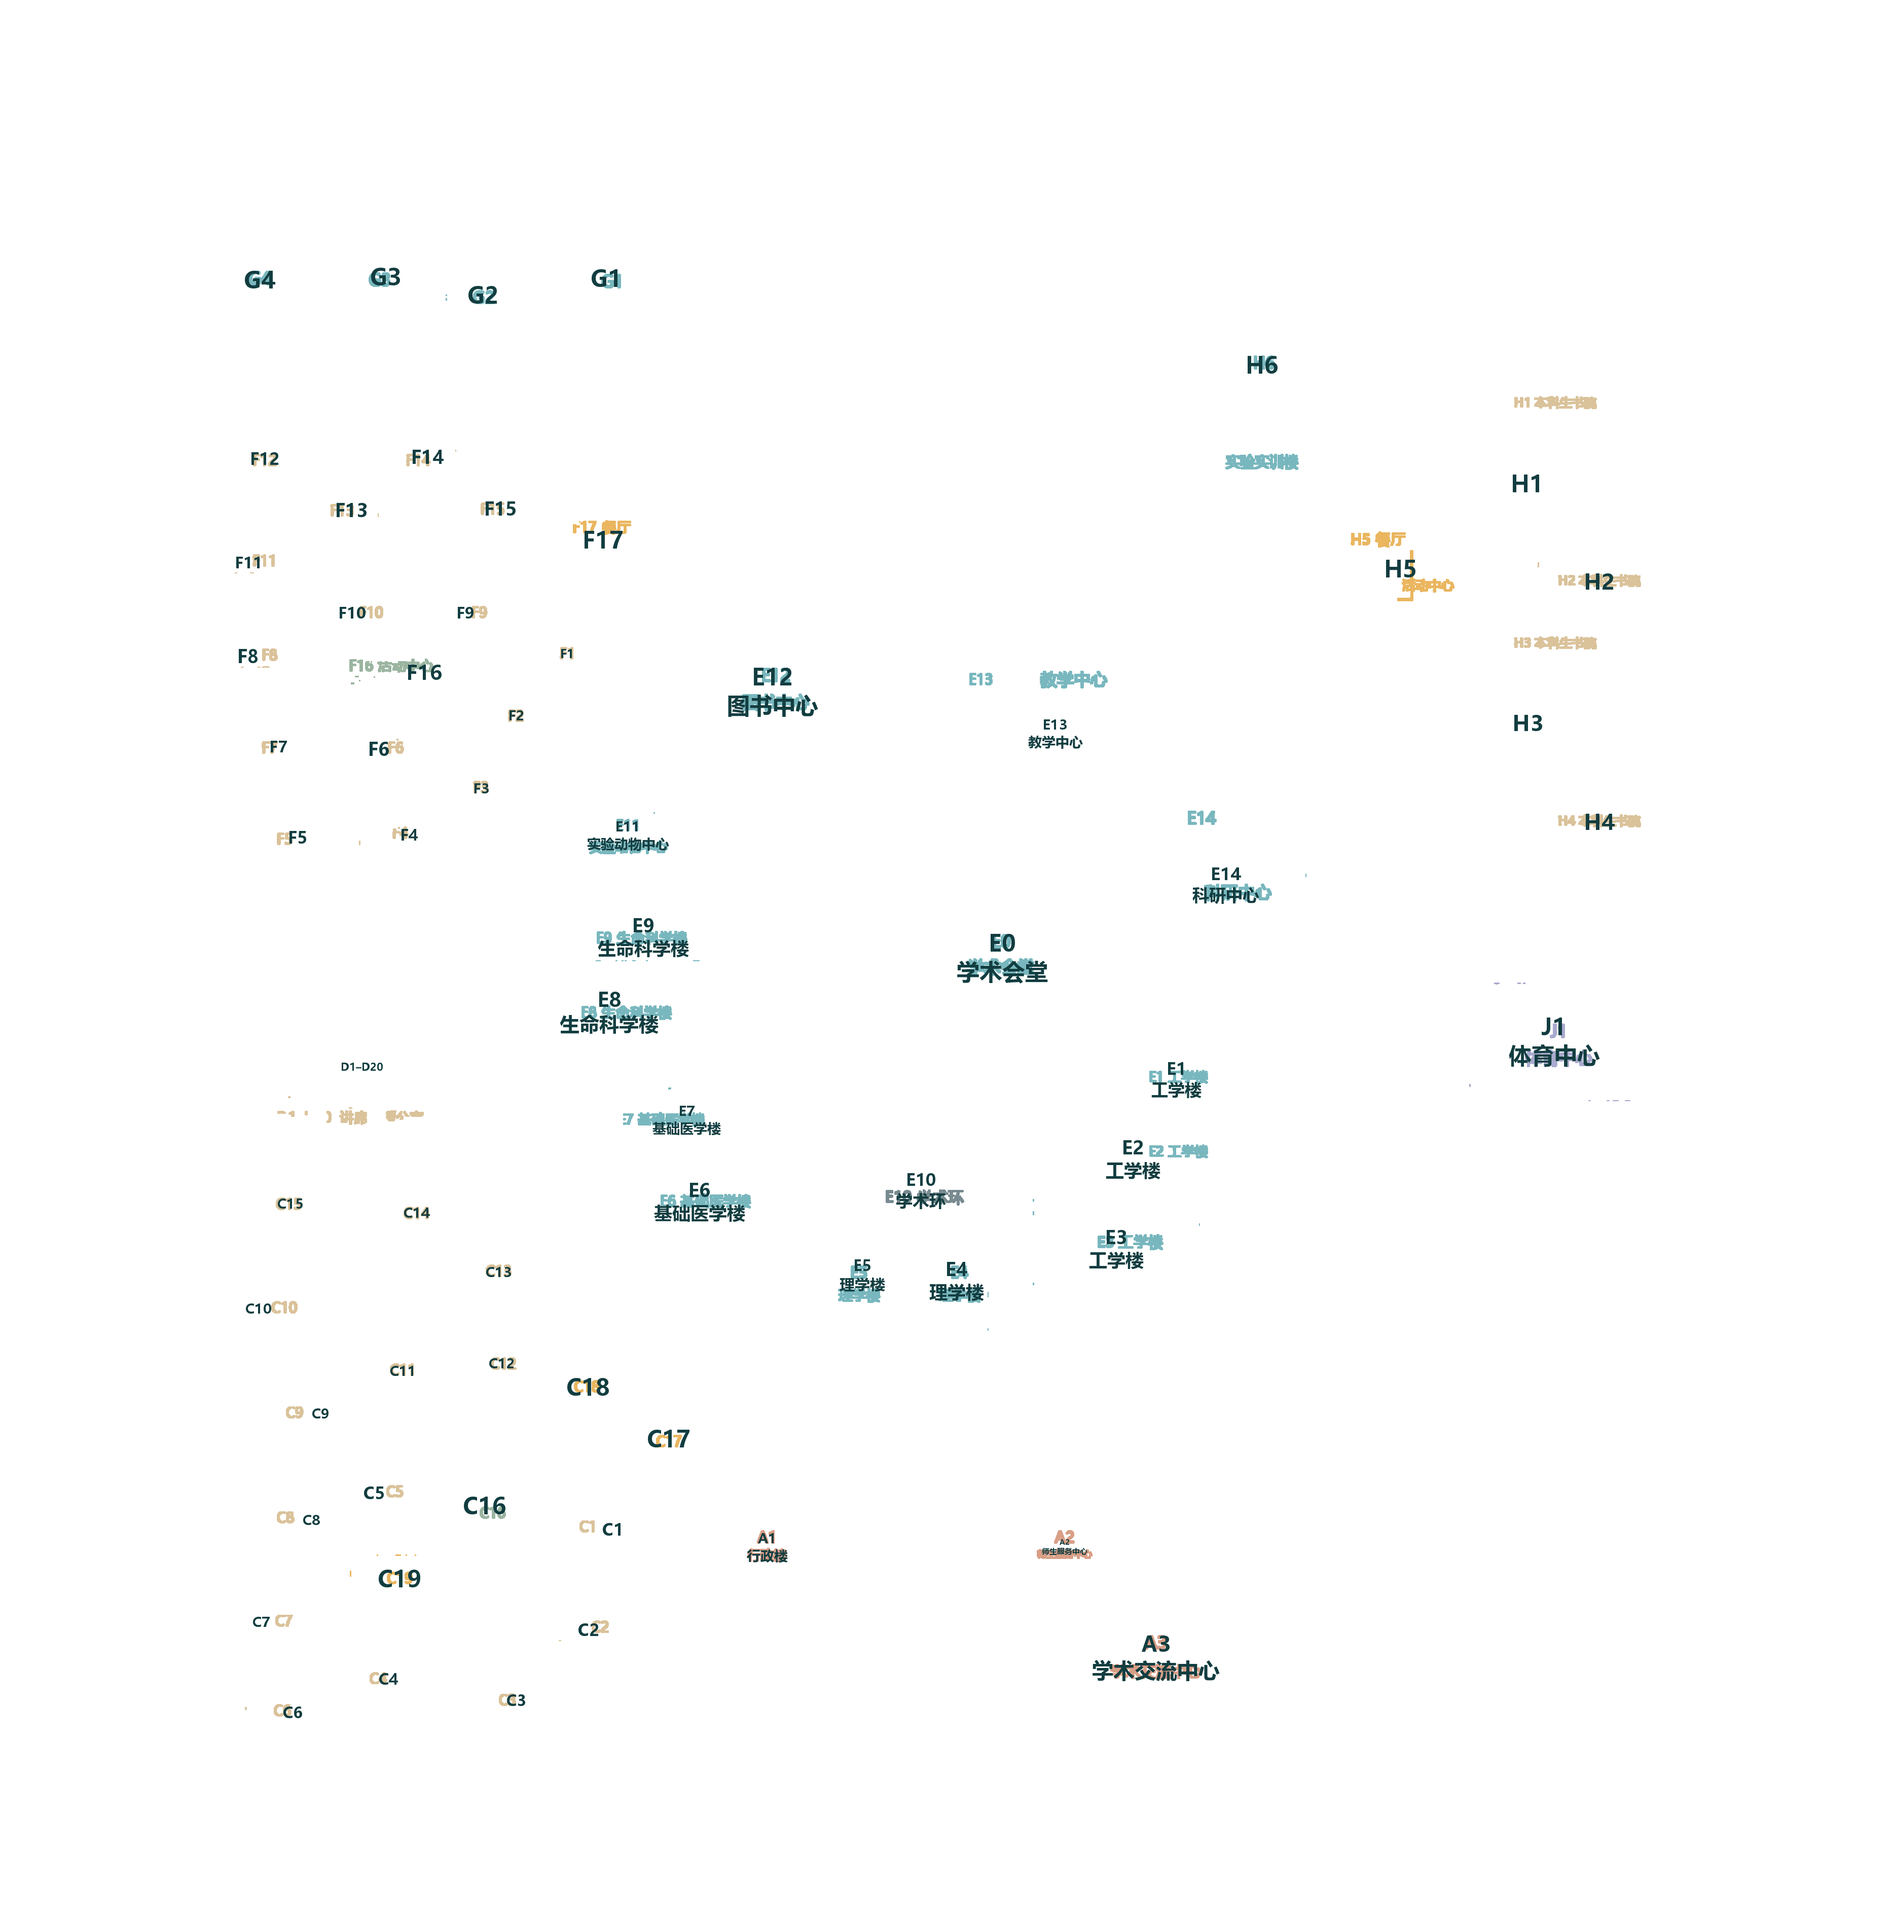
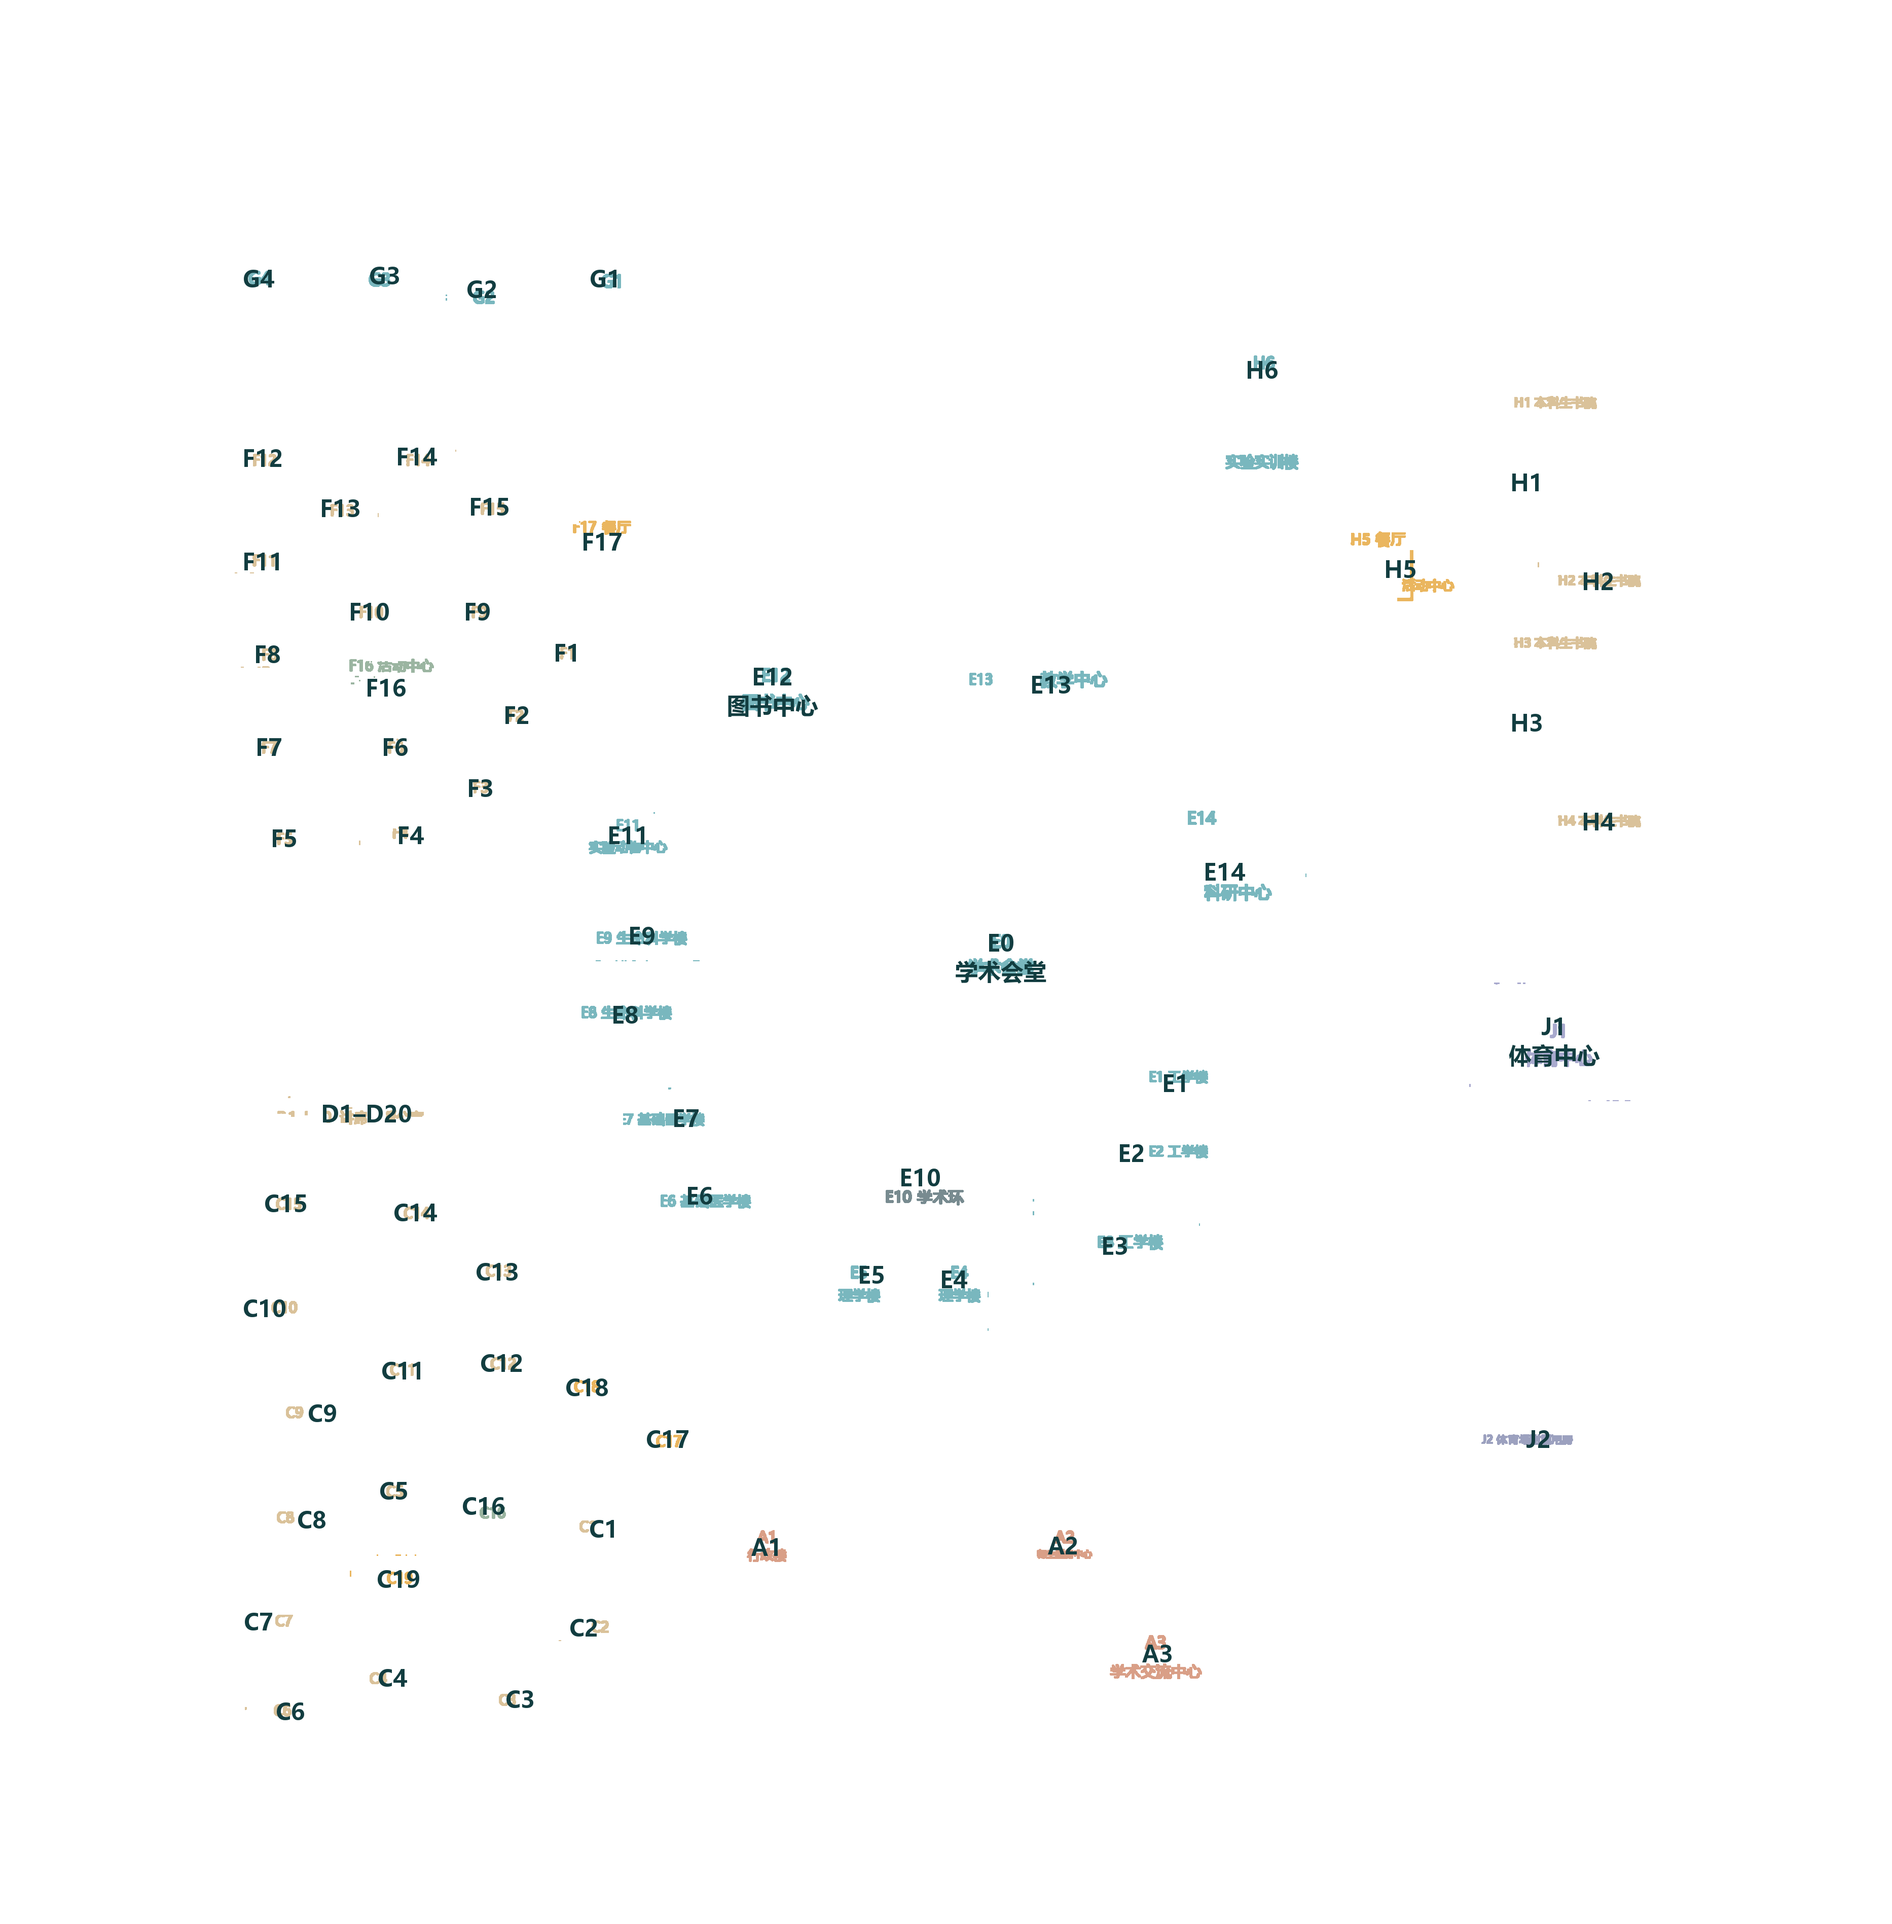
Match ground building labels to C17 lettering

diff --git a/site/atlas.js b/site/atlas.js
@@ -27,7 +27,7 @@ function buildingAt(x,y){
   return footprints.findIndex(f=>point.x>=f.left&&point.x<f.right&&point.y>=f.top&&point.y<f.bottom&&f.path.isPointInFill(point))+1;
 }
 const groundLabels=document.createElementNS(map.namespaceURI,'image');
-groundLabels.setAttribute('href','assets/building-labels.webp?v=h-college-2');
+groundLabels.setAttribute('href','assets/building-labels.webp?v=uniform-15');
 groundLabels.setAttribute('width','1244');groundLabels.setAttribute('height','1265');
 groundLabels.setAttribute('class','ground-labels');groundLabels.style.pointerEvents='none';
 el('campusBase').after(groundLabels);

diff --git a/tools/build-ground-labels.py b/tools/build-ground-labels.py
@@ -16,27 +16,25 @@ for idx, (code,name,category) in enumerate(data['items'],1):
     x,y=xs.min(),ys.min()
     w,h=xs.max()-x+1,ys.max()-y+1
     inside=mask[y:y+h,x:x+w]==idx
-    integral=np.pad(inside.astype(int),((1,0),(1,0))).cumsum(0).cumsum(1)
-    # Keep short codes visible on narrow wings. Use full names where they fit.
+    # C17 uses 15 map units. Anchor every label inside its own footprint.
+    size=15
+    font=ImageFont.truetype('C:/Windows/Fonts/msyhbd.ttc',size*scale)
     lines=[code,name] if code.startswith(('E','J','A')) else [code]
-    college=code in {'H1','H2','H3','H4'}
-    for size in range(22 if college else 15,3,-1):
-        font=ImageFont.truetype('C:/Windows/Fonts/msyhbd.ttc',size*scale)
-        widths=[font.getlength(t)/scale for t in lines]
-        rw=int(np.ceil(max(widths)))+2
-        rh=int(np.ceil(size*1.24*len(lines)))+1
-        if college:
-            # Fit the visible glyphs rather than reserving a full line of leading.
-            left,top,right,bottom=font.getbbox(code)
-            rw=int(np.ceil((right-left)/scale))+2
-            rh=int(np.ceil((bottom-top)/scale))+2
-        if rw>w or rh>h:continue
-        valid=integral[rh:,rw:]-integral[:-rh,rw:]-integral[rh:,:-rw]+integral[:-rh,:-rw]==rw*rh
-        yy,xx=np.where(valid)
-        if not len(xx):continue
-        j=np.argmin((xx+rw/2-w/2)**2+(yy+rh/2-h/2)**2)
-        break
-    else:continue
+    while True:
+        boxes=[font.getbbox(line,anchor='mm') for line in lines]
+        half_w=int(np.ceil(max(max(-l,r) for l,t,r,b in boxes)/scale))
+        half_h=int(np.ceil(max(max(-t,b) for l,t,r,b in boxes)/scale
+                           +(len(lines)-1)*size*.62))
+        padded=np.pad(inside.astype(int),((half_h,half_h),(half_w,half_w)))
+        sums=np.pad(padded,((1,0),(1,0))).cumsum(0).cumsum(1)
+        hbox,wbox=2*half_h+1,2*half_w+1
+        coverage=sums[hbox:,wbox:]-sums[:-hbox,wbox:]-sums[hbox:,:-wbox]+sums[:-hbox,:-wbox]
+        best=coverage[inside].max()
+        if len(lines)==1 or best==hbox*wbox:
+            break
+        lines=[code]
+    yy,xx=np.where(inside & (coverage==best))
+    j=np.argmin((xx-(w-1)/2)**2+(yy-(h-1)/2)**2)
     crop=ground.crop((4*x,4*y,4*(x+w),4*(y+h))).resize((w*scale,h*scale))
     pixels=np.asarray(crop).astype(int)
     clip=Image.fromarray(inside.astype('uint8')*255).resize(crop.size,Image.Resampling.NEAREST)
@@ -46,13 +44,10 @@ for idx, (code,name,category) in enumerate(data['items'],1):
     ink=interior & (pixels.mean(2)<fill.mean()-12)
     patch=Image.new('RGBA',crop.size,tuple(fill.astype(int))+(0,))
     patch.putalpha(Image.fromarray(ink.astype('uint8')*255).filter(ImageFilter.MaxFilter(3)))
-    draw=ImageDraw.Draw(patch)
-    if college:
-        draw.text(((xx[j]+rw/2)*scale-(left+right)/2,(yy[j]+rh/2)*scale-(top+bottom)/2),
-                  code,font=font,fill='#123d40')
-        print(code,size)
-    for n,line in enumerate([] if college else lines):
-        draw.text(((xx[j]+rw/2)*scale,(yy[j]+(n+.5)*size*1.24+.5)*scale),line,font=font,anchor='mm',fill='#123d40')
     patch.putalpha(Image.fromarray(np.minimum(np.asarray(patch.getchannel('A')),np.asarray(clip))))
     layer.alpha_composite(patch,(x*scale,y*scale))
+    draw=ImageDraw.Draw(layer)
+    for n,line in enumerate(lines):
+        anchor_y=y+yy[j]+(n-(len(lines)-1)/2)*size*1.24
+        draw.text(((x+xx[j])*scale,anchor_y*scale),line,font=font,anchor='mm',fill='#123d40')
 layer.save(site/'assets/building-labels.webp',lossless=True)
